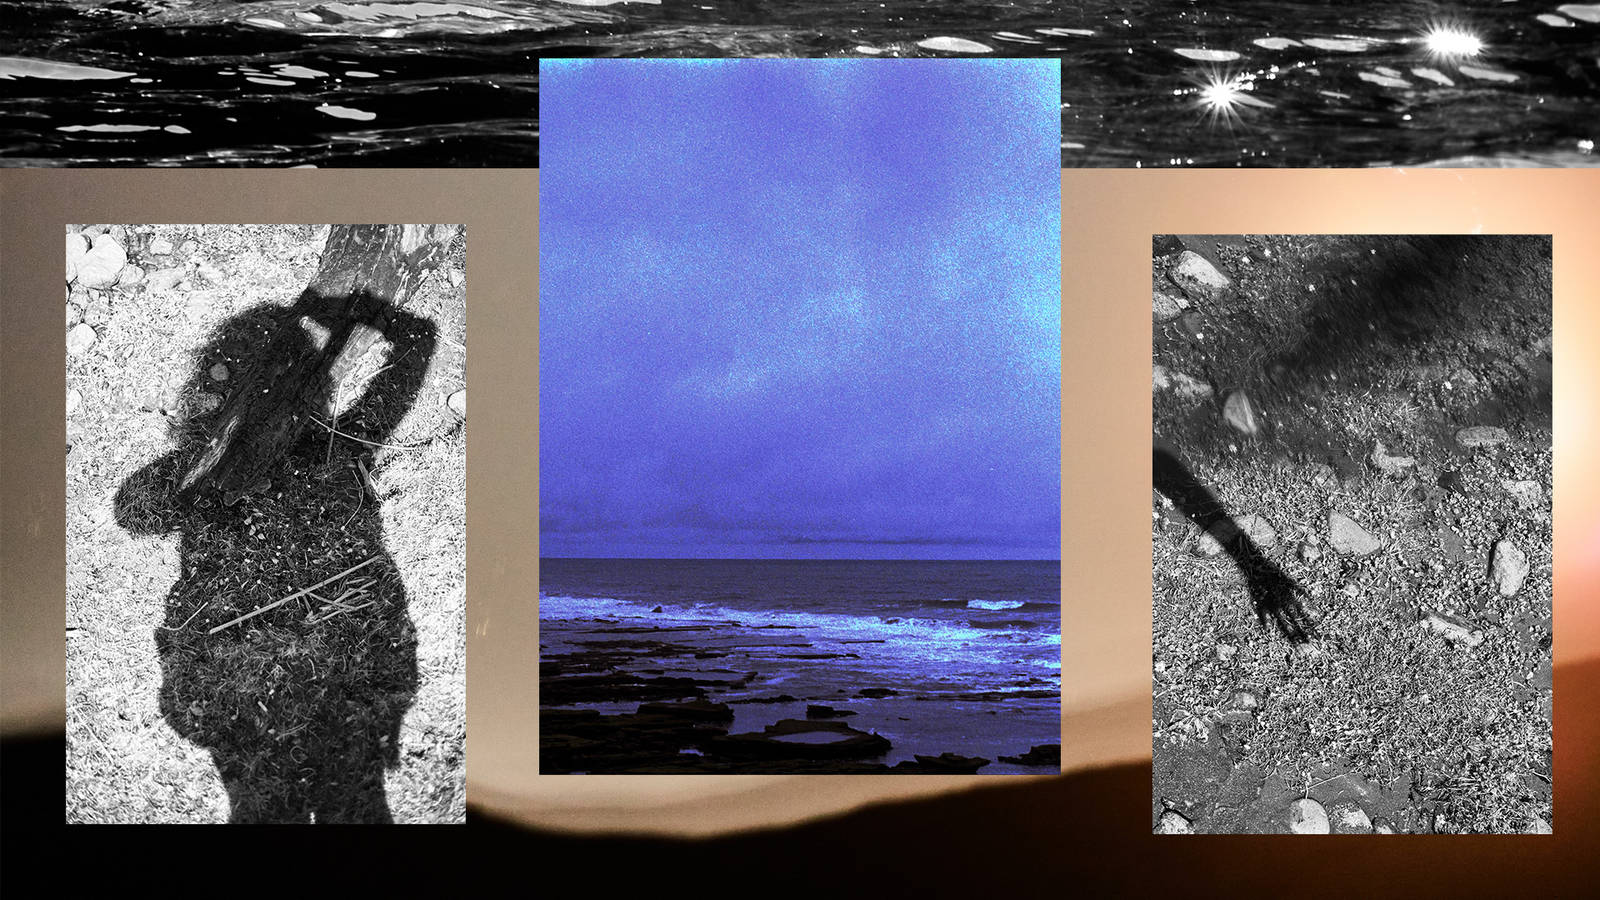
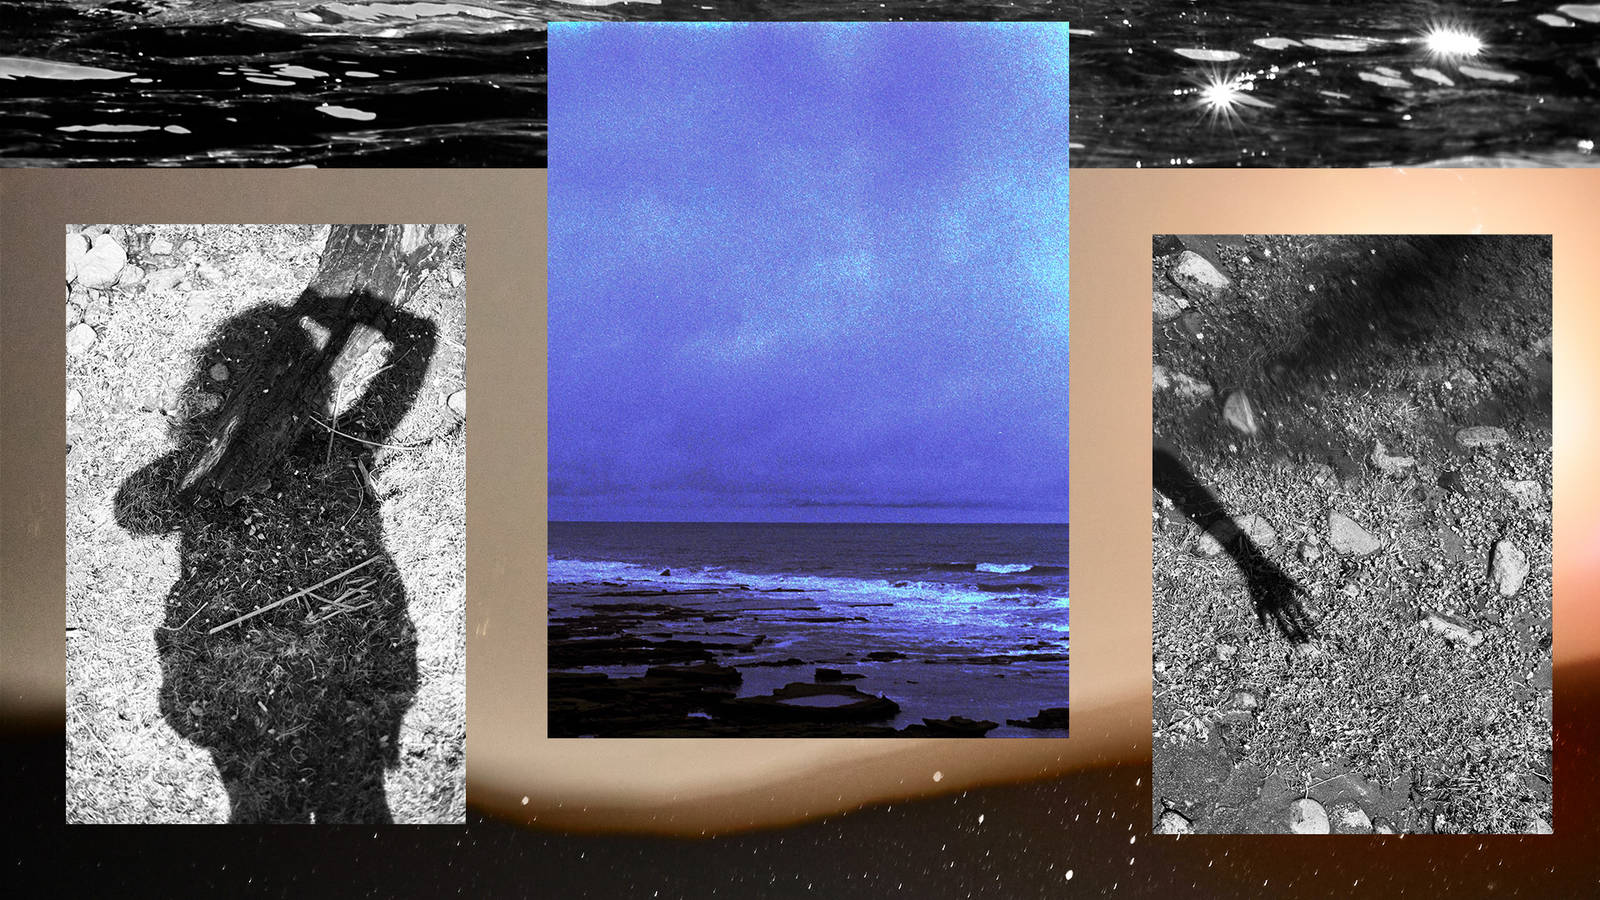
cambio contacto

Changed region(s): [[0.2812, 0.0, 0.7812, 1.0], [0.9688, 0.7156, 1.0, 0.9022], [0.0, 0.7467, 0.0625, 0.84]]

diff --git a/src/pages/Contact.jsx b/src/pages/Contact.jsx
@@ -1,12 +1,26 @@
-export default function Contact() {
+// src/pages/Contacto.jsx
+import { useEffect } from "react";
+import "../styles/Contacto.css";
+
+const CONTACT_BG = "/assets/inicio/4-pagina.jpg"; // tu imagen
+
+export default function Contacto() {
+  useEffect(() => {
+    const site = document.querySelector(".site");
+    if (!site) return;
+
+    site.classList.add("is-contact"); // para estilos especiales
+
+    return () => {
+      site.classList.remove("is-contact");
+    };
+  }, []);
+
   return (
-    <section>
-      <h1>Contacto</h1>
-      <p>
-        Escribime a <a href="mailto:hola@dabhya.com">hola@dabhya.com</a> o por IG <a href="https://instagram.com/">@dabhya</a>.
-        Agregar un footer con un contacto mio para promocionar la pagina
-      </p>
-      {/* Luego sumamos formulario con SMTP propio */}
-    </section>
+    <section
+      className="contact-hero"
+      aria-label="Contacto"
+      style={{ backgroundImage: `url('${CONTACT_BG}')` }}
+    />
   );
 }

diff --git a/src/styles/Contacto.css b/src/styles/Contacto.css
@@ -1,0 +1,15 @@
+/* La app en modo contacto ocupa exactamente una pantalla y no scrollea */
+.site.is-contact {
+  height: 100vh;
+  overflow: hidden;
+}
+
+/* La imagen de contacto llena toda la ventana y va DETRÁS del nav */
+.contact-hero {
+  position: fixed;
+  inset: 0; /* top:0; right:0; bottom:0; left:0 */
+  background-size: cover;
+  background-position: center;
+  background-repeat: no-repeat;
+  z-index: -1; /* queda por debajo del nav y del contenido */
+}

diff --git a/index.html b/index.html
@@ -2,7 +2,7 @@
 <html lang="en">
   <head>
     <meta charset="UTF-8" />
-    <link rel="icon" type="image/svg+xml" href="/vite.svg" />
+    <link rel="icon" type="image/svg+xml" href="public/assets/inicio/4-pagina.jpg" />
     <link href="https://fonts.googleapis.com/css2?family=Inter:wght@300;400;600;800&family=Space+Grotesk:wght@400;700&display=swap" rel="stylesheet">
   <!--<meta name="viewport" content="width=device-width, initial-scale=1.0" />-->
   <meta

diff --git a/src/pages/Work.jsx b/src/pages/Work.jsx
@@ -17,7 +17,7 @@ export default function Work() {
     };
   }, []);
 
-  // Las otras dos imágenes, del mismo tamaño/formato que la primera
+  // Las otras imágenes, del mismo tamaño/formato que la primera
   const moreHeros = [
     "/assets/inicio/1-pagina.jpg",
     "/assets/inicio/2-pagina.jpg",
